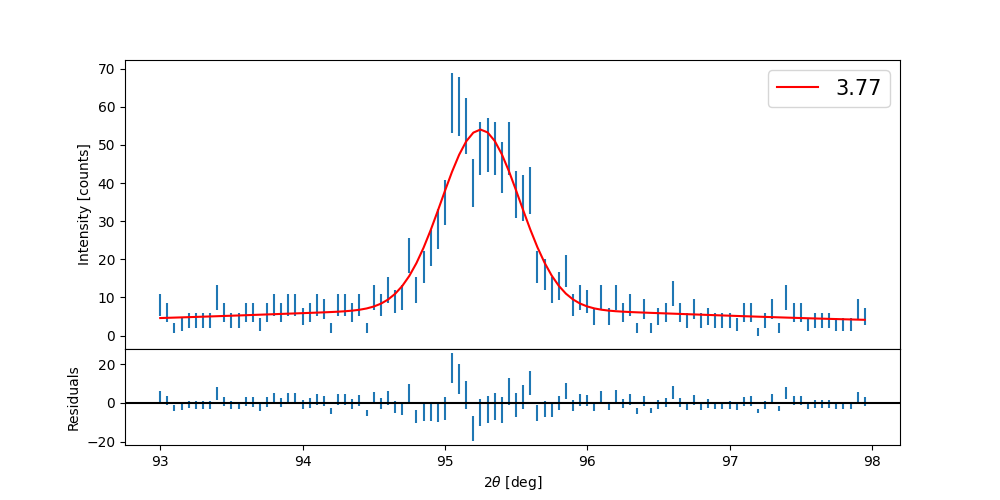
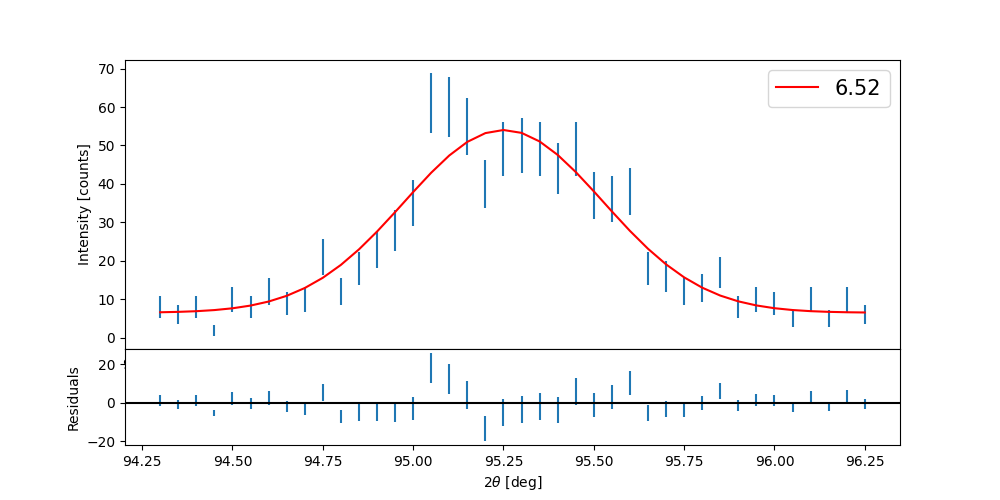
Bug fix and Pb Sn stuff

diff --git a/readData.py b/readData.py
@@ -6,21 +6,14 @@ from scipy.optimize import curve_fit
 import pickle
 
 def Gaussian(x, *p):
-    A, x0, sigma, C = p
-    return A*(np.sqrt(2*np.pi*sigma))*np.exp(-(x-x0)**2/(2*sigma**2))+C
-
-def Gaussian(x, *p):
-    A, x0, sigma, C = p
+    A, x0, sigma, C = np.abs(p)
     return A*(np.sqrt(2*np.pi*sigma))*np.exp(-(x-x0)**2/(2*sigma**2))+C
 
 def Lorentzian(x, *p):
-    B, x0, gamma, C = p
+    B, x0, gamma, C = np.abs(p)
     return B/np.pi*gamma/((x-x0)**2+gamma**2)+C
 
 def voigt(x,A,B,x0,sigma, gamma,C):
-    #G = np.fft.fft(Gaussian(x,1,x0,sigma,C))
-    #L = np.fft.fft(Lorentzian(x,1,x0,gamma,C))
-    #V = A*np.real(np.fft.fftshift(np.fft.ifft(G*L)))
     G=Gaussian(x,A,x0,sigma,C)
     L=Lorentzian(x,B,x0,gamma,C)
     V = G + L
@@ -37,7 +30,7 @@ def fit_peak(dat,bds,p0,plot=True,filename=None):
         ax[0].errorbar(cut[:,0],cut[:,1],yerr=errs,ls='')
         mask = errs != 0
         fit = voigt(cut[:,0],*popt)
-        chi2 = np.sum((cut[:,1][mask]-fit)**2/errs[mask])/(len(cut[mask])-len(p0))
+        chi2 = np.sum((cut[:,1][mask]-fit[mask])**2/errs[mask])/(len(cut[mask])-len(p0))
         ax[0].plot(cut[:,0],fit,color='r',label=np.round(chi2,2))
         ax[0].set_ylabel("Intensity [counts]")
         ax[0].legend()
@@ -74,13 +67,21 @@ def fit_n_peaks(data,bds,mus,amps,material_name):
     #with open('filename.pickle', 'rb') as handle:
     #    b = pickle.load(handle)
 
+# don't need this code to run everytime we use the above functions, fits are done
+
+'''width=1
+
 # FIT PURE CU DATA
 
 Cu_dat = np.loadtxt("data/Cu_09-03-22.UXD")
 
-bds = [[42,44],[48,52],[72,76],[88,92],[93,98]]
-mus = [43.5,50.5,74.2,90,95]
-amps = [100,10,10,10,2]
+mus = [43.35,50.5,74.2,90,95.3]
+amps = [1000,10,10,10,2]
+bds=[[0,0]]*len(mus)
+for i in range(len(bds)):
+    bds[i] = [mus[i]-width,mus[i]+width]
+bds[0] = [mus[0]-0.6,mus[0]+0.6]
+bds[1] = [mus[1]-0.6,mus[1]+0.6]
 
 fit_n_peaks(Cu_dat,bds,mus,amps,'Cu')
 
@@ -88,9 +89,13 @@ fit_n_peaks(Cu_dat,bds,mus,amps,'Cu')
 
 Ni_dat = np.loadtxt("data/Ni_09-03-22.UXD")
 
-bds = [[41,48],[48,55],[74,79],[91,95],[97.5,99.5]]
-mus = [44.5,52,76.5,93,98.5]
+mus = [44.5,51.8,76.4,93,98.5]
 amps = [1000,10,10,10,5]
+bds=[[0,0]]*len(mus)
+for i in range(len(bds)):
+    bds[i] = [mus[i]-width,mus[i]+width]
+bds[0] = [mus[0]-0.6,mus[0]+0.6]
+bds[1] = [mus[1]-0.6,mus[1]+0.6]
 
 fit_n_peaks(Ni_dat,bds,mus,amps,'Ni')
 
@@ -98,9 +103,12 @@ fit_n_peaks(Ni_dat,bds,mus,amps,'Ni')
 
 Cu25_Ni75_dat = np.loadtxt("data/Cu25_Ni75_09-03-22.UXD")
 
-bds = [[41,48],[48,55],[73,79],[90,94],[96,99.5]]
-mus = [44,52,76,92.5,97.5]
-amps = [1000,10,10,10,5]
+mus = [44.3,51.6,75.9,92.35,97.75]
+amps = [600,10,10,10,5]
+bds=[[0,0]]*len(mus)
+for i in range(len(bds)):
+    bds[i] = [mus[i]-width,mus[i]+width]
+bds[0] = [mus[0]-0.8,mus[0]+0.8]
 
 fit_n_peaks(Cu25_Ni75_dat,bds,mus,amps,'Cu25_Ni75')
 
@@ -108,9 +116,12 @@ fit_n_peaks(Cu25_Ni75_dat,bds,mus,amps,'Cu25_Ni75')
 
 Cu50_Ni50_dat = np.loadtxt("data/Cu50_Ni50_10-03-22.UXD")
 
-bds = [[41,47],[48,55],[73,79],[90,94],[95,99]]
-mus = [44,51,75,92,97]
+mus = [44,51.3,75.35,91.65,97]
 amps = [500,100,100,10,5]
+bds=[[0,0]]*len(mus)
+for i in range(len(bds)):
+    bds[i] = [mus[i]-width,mus[i]+width]
+bds[0] = [mus[0]-0.8,mus[0]+0.8]
 
 fit_n_peaks(Cu50_Ni50_dat,bds,mus,amps,'Cu50_Ni50')
 
@@ -118,8 +129,12 @@ fit_n_peaks(Cu50_Ni50_dat,bds,mus,amps,'Cu50_Ni50')
 
 Cu75_Ni25_dat = np.loadtxt("data/Cu75_Ni25_10-03-22.UXD")
 
-bds = [[41,46],[48,55],[73,77],[88.5,92.5],[94.5,98.5]]
-mus = [43.5,51,75,90.5,96.5]
+mus = [43.7,50.85,74.8,90.85,96.2]
 amps = [500,100,50,10,5]
+bds=[[0,0]]*len(mus)
+for i in range(len(bds)):
+    bds[i] = [mus[i]-width,mus[i]+width]
+bds[0] = [mus[0]-0.8,mus[0]+0.8]
+bds[1] = [mus[1]-0.8,mus[1]+0.8]
 
-fit_n_peaks(Cu75_Ni25_dat,bds,mus,amps,'Cu75_Ni25')
+fit_n_peaks(Cu75_Ni25_dat,bds,mus,amps,'Cu75_Ni25')'''

diff --git a/plot_figures.py b/plot_figures.py
@@ -10,9 +10,9 @@ from readData import voigt
 with open('fits/Cu.pickle', 'rb') as handle:
     Cu_fit = pickle.load(handle)
 
-cut=Cu_fit['cut'][1]
-popt=Cu_fit['popt'][1]
-pcov=Cu_fit['pcov'][1]
+cut=Cu_fit['cut'][2]
+popt=Cu_fit['popt'][2]
+pcov=Cu_fit['pcov'][2]
 
 fig, ax = plt.subplots(nrows=2, ncols = 1, gridspec_kw={'height_ratios': [3,1]}, figsize=(6,6),sharex=True)
 plt.subplots_adjust(hspace=0)
@@ -33,7 +33,7 @@ ax[1].set_xlabel(r"$2\theta$ [deg]",fontsize=20)
 ax[1].set_ylabel("Residuals",fontsize=20)
 ax[0].tick_params(axis='both', which='major', labelsize=15)
 ax[1].tick_params(axis='both', which='major', labelsize=15)
-ax[0].set_xlim(popt[2]-1,popt[2]+1)
+ax[0].set_xlim(x[0],x[-1])
 plt.savefig('figures/interim_1/peak_fit.png',dpi=300,bbox_inches='tight')
 plt.clf()
 
@@ -91,9 +91,7 @@ ax[1].plot(percent_Cu,a-vegard(x_Cu),color='k',ls='--')
 
 for j in range(len(fits)):
         
-    label = str(np.round(a[j],5)) + ' (' + str(int(1e6*a_err[j])) + ') $\AA$'
-    if j==4:
-        label = '3.62130' + ' (' + str(int(1e6*a_err[j])) + ') $\AA$'
+    label = str(format(a[j], '.5f')) + ' (' + str(int(1e6*a_err[j])) + ') $\AA$'
     ax[0].errorbar(percent_Cu[j],a[j],label=label,color=color[j],yerr=a_err[j],
                ls='--',marker='.',markersize=10)
     ax[0].set_ylabel(r'$a$ [$\AA$]',fontsize=20)

diff --git a/Pb_Sn.py b/Pb_Sn.py
@@ -1,0 +1,32 @@
+import numpy as np
+import matplotlib.pyplot as plt
+
+from readData import voigt,fit_peak,fit_n_peaks
+
+def get_bds(mus,width):
+    bds=[[0,0]]*len(mus)
+    for i in range(len(bds)):
+        bds[i] = [mus[i]-widths[i],mus[i]+widths[i]]
+    return bds
+
+# FIT PB DATA (trivial since it's still FCC)
+
+Pb_dat = np.loadtxt('data/Pb_10-03-22.UXD')
+
+mus = [31.4,36.3,52.3,62.2,65.3,77.1,85.5,88.4,99.5,108]
+widths = [0.8]*len(mus)
+bds=get_bds(mus,widths)
+amps = [100,100,10,10,2,2,2,2,2,2]
+
+fit_n_peaks(Pb_dat,bds,mus,amps,'Pb')
+
+# FIT SN DATA (bit more complicated because of double peaks)
+
+Sn_dat = np.loadtxt('data/Sn_10-03-22.UXD')
+
+mus = [31.4,36.3,52.3,62.2,65.3,77.1,85.5,88.4,99.5,108]
+widths = [0.8]*len(mus)
+bds=get_bds(mus,widths)
+amps = [100,100,10,10,2,2,2,2,2,2]
+
+fit_n_peaks(Sn_dat,bds,mus,amps,'Sn')
